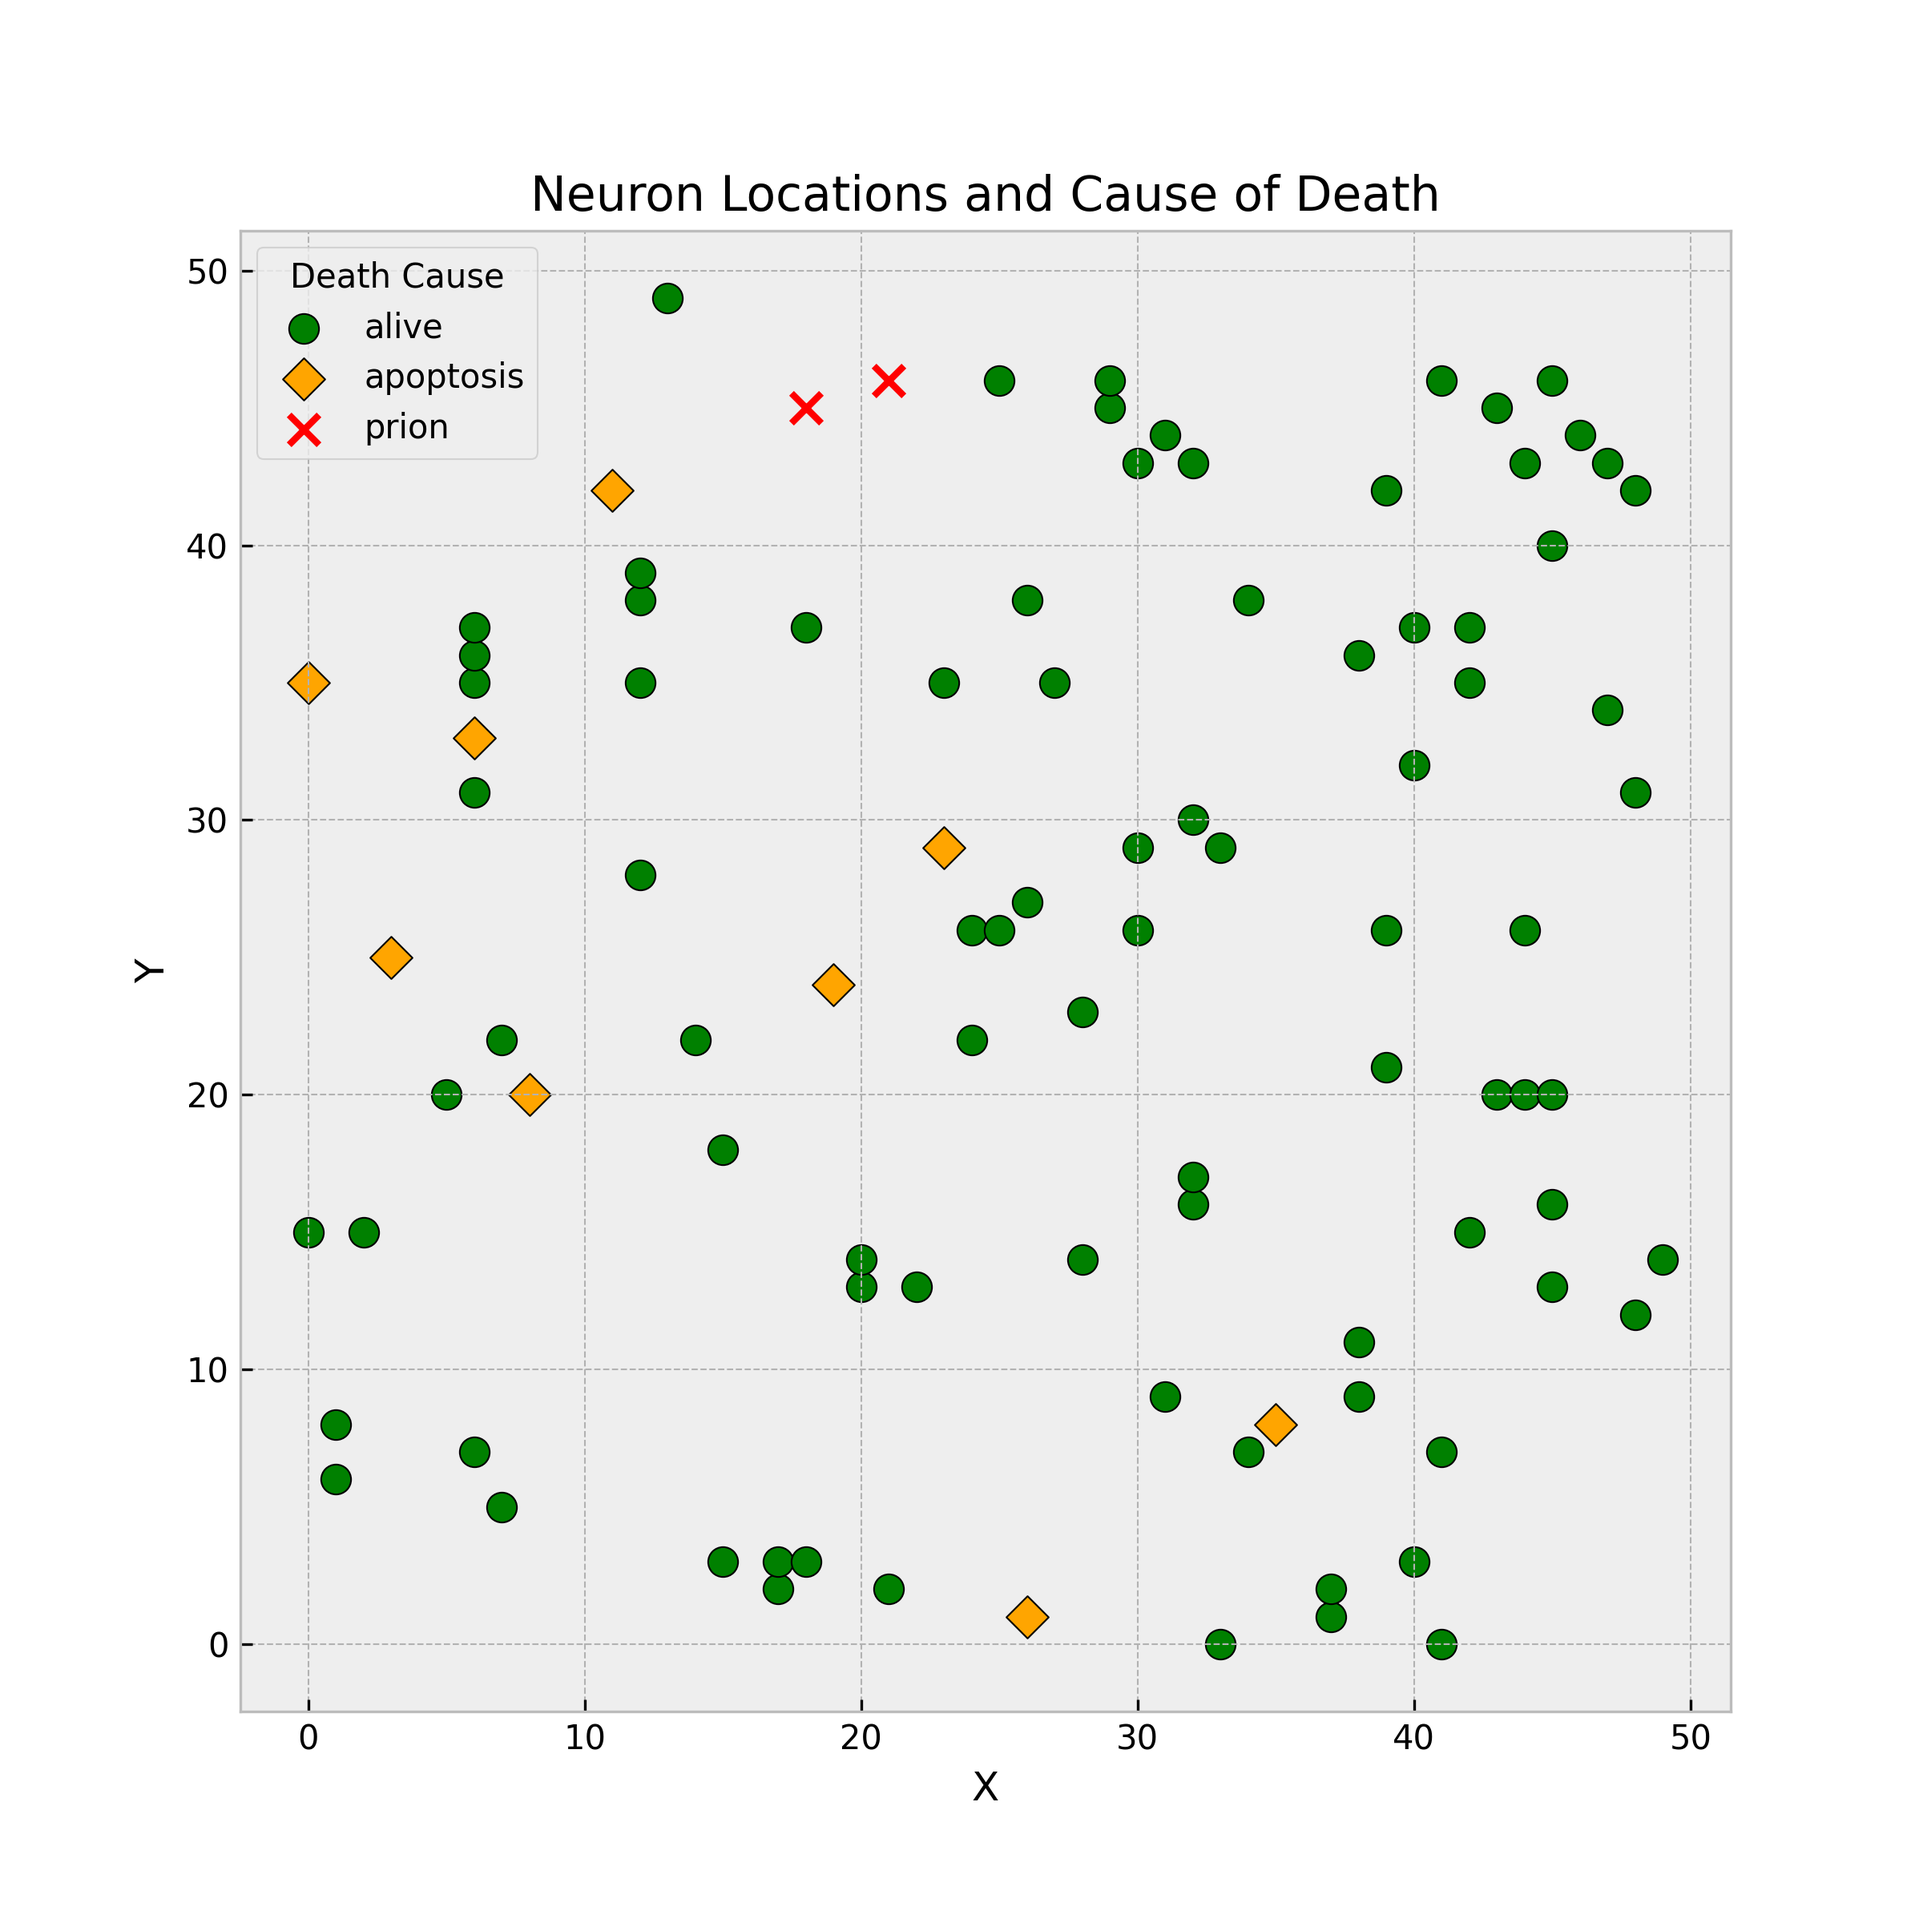
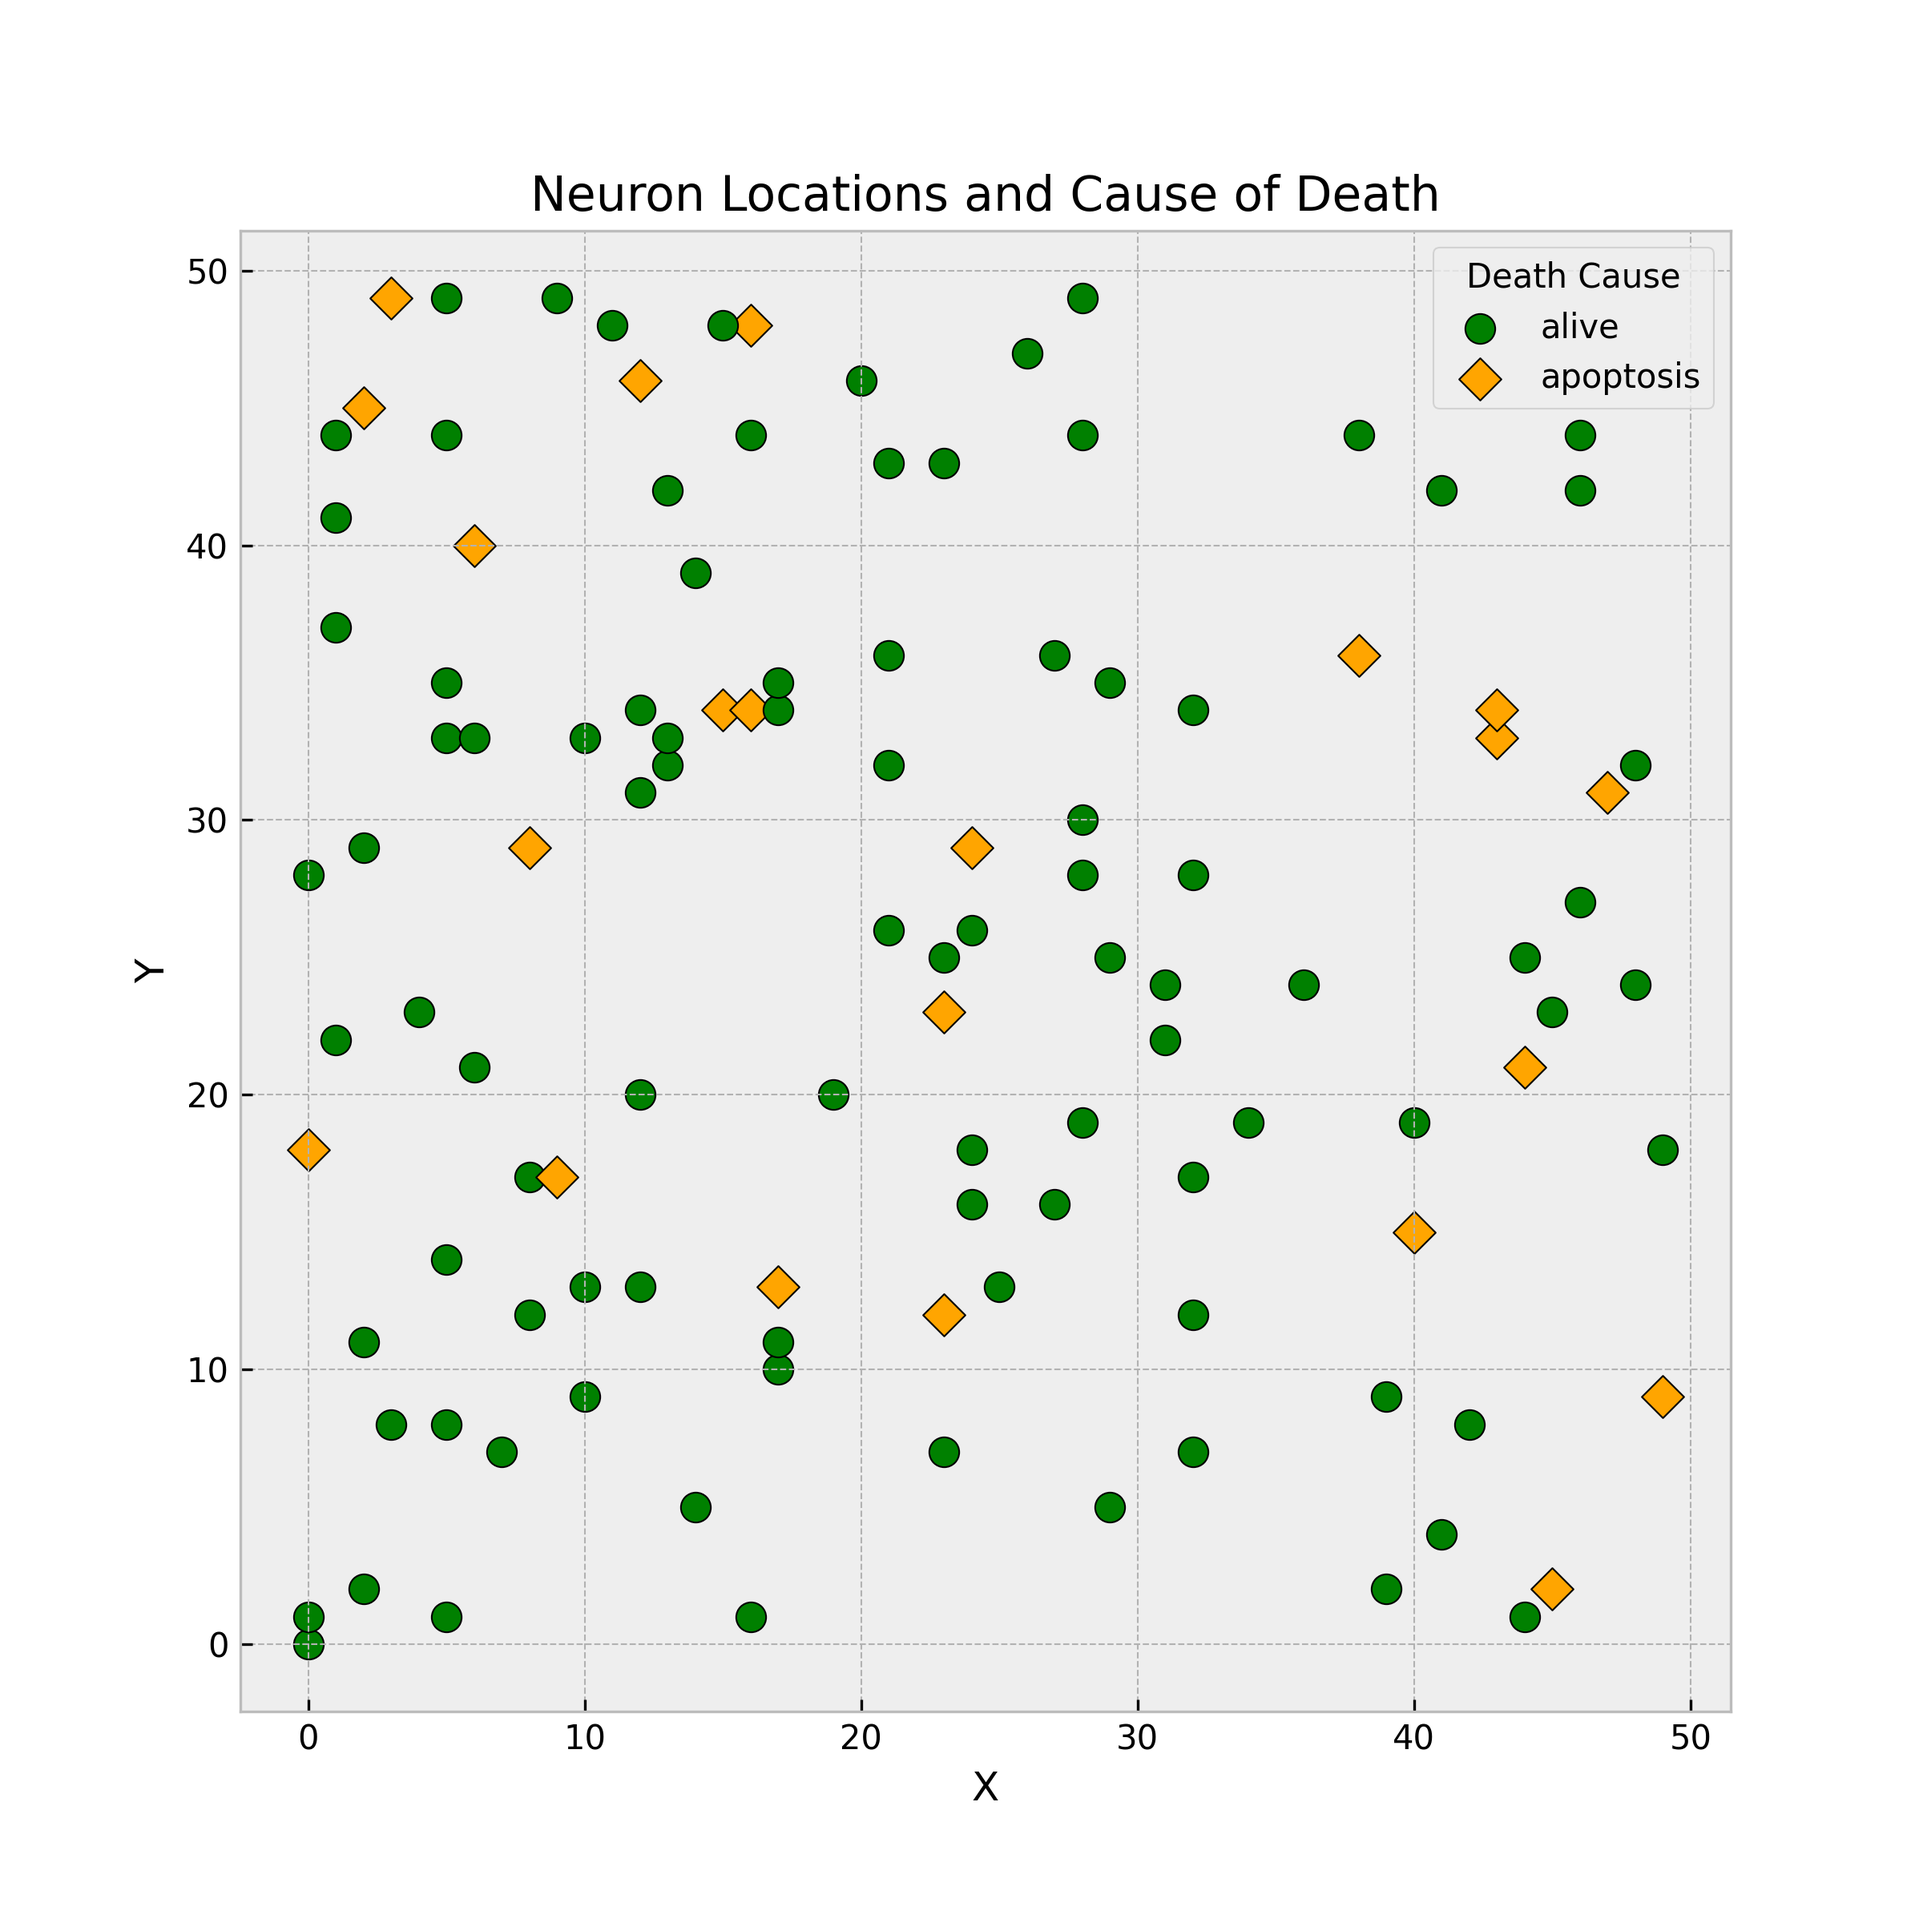
added cell replacement

diff --git a/source/cells.py b/source/cells.py
@@ -17,7 +17,7 @@ class Neuron:
     died (str or None): Cause of neuron death.
     """
 
-    def __init__(self, x, y, age=0):
+    def __init__(self, x, y, age=HEALTH_NEURON):
         """
         Initialize a neuron at position (x, y) with a given age.
 
@@ -50,7 +50,7 @@ class Neuron:
         self.died = cause
         return 0
 
-    def age_cell(self) -> None:
+    def age_cell(self, neuron_grid, neuron_dict) -> None:
         """
         Increment the neuron's age and check for apoptosis or age-related death.
         """
@@ -61,10 +61,10 @@ class Neuron:
 
         if MIN_AGE < self.age and np.random.rand() < P_apop:
             self.die("apoptosis")
-        # elif self.age >= MAX_AGE:
-        #     self.die("age")
+            if np.random.rand() < NEW_CELL_CHANGE:
+                create_neuron(neuron_grid, neuron_dict)
 
-    def prion_cell_death(self, prion_grid) -> None:
+    def prion_cell_death(self, prion_grid, neuron_grid, neuron_dict) -> None:
         """
         Check for prion-induced neuron death based on prion concentration in the neighborhood.
 
@@ -76,6 +76,9 @@ class Neuron:
         neighbor_sum = np.sum(neighborhood) - prion_grid[self.x, self.y]
         if neighbor_sum > PRION_THRESHOLD:
             self.die("prion")
+
+            if np.random.rand() < NEW_CELL_CHANGE:
+                create_neuron(neuron_grid, neuron_dict)
 
     def get_index(self, nx) -> int:
         """
@@ -187,3 +190,25 @@ def create_neuron_dict(neuron_grid) -> dict:
         neuron_grid[x, y] = neuron.get_age()
         neuron_dict[tuple(coords)] = neuron
     return neuron_dict
+
+
+def create_neuron(neuron_grid, neuron_dict):
+    """
+    Create a new neuron in the grid and update the neuron dictionary.
+
+    Params
+    -------
+    - neuron_grid (np.ndarray): Grid representing neuron health states.
+    - neuron_dict (dict): Dictionary mapping coordinates to Neuron objects.
+
+    Returns
+    -------
+    - None
+    """
+    empty_cells = np.argwhere(neuron_grid == 0)
+
+    if len(empty_cells) > 0:
+        x, y = empty_cells[np.random.choice(len(empty_cells))]
+        neuron = Neuron(x, y)
+        neuron_grid[x, y] = neuron.get_age()
+        neuron_dict[tuple((x, y))] = neuron

diff --git a/config.py b/config.py
@@ -14,27 +14,29 @@ HEALTH_NEURON = 1  # Value representing a healthy neuron
 DEATH_NEURON = -1  # Value representing a dead neuron
 DEATH_MIN = -5  # Minimum value for neuron death state
 
+NEW_CELL_CHANGE = 0.7  # Change in cell state for new cells
+
 # Grid and diffusion parameters
 GRID_SIZE = 50  # Grid size (number of cells per side)
 GRID_SPACING = 0.044  # Grid spacing (mm)
 
-k_A = 0.7  # Protein production rate (μg/μg/day)
-k_B = 0.1  # Prion production rate (μg/μg/day)
+k_A = 0.7  # Protein decay rate (μg/μg/day)
+k_B = 0.01  # Prion decay rate (μg/μg/day)
 k_c = 0.6  # Conversion rate (μg/μg/day)
 D_A = 0.7  # Protein diffusion coefficient (mm^2/day)
-D_B = 0.5  # Prion diffusion coefficient (mm^2/day)
+D_B = 0.6  # Prion diffusion coefficient (mm^2/day)
 
 # Simulation time parameters
 TIME = 250  # Total simulation time (days)
-TIME_SPACING = 0.001  # Time step size (days)
+TIME_SPACING = 0.01  # Time step size (days * spacing)
 SECONDS = 25  # Number of timesteps per second (for animation)
 SAVE_INTERVAL = 10  # Interval for saving simulation state (timesteps)
 GIF_DURATION = 10  # Duration of GIF animations (seconds)
 
 # Plotting parameters
-FIG_DPI = 300  # Figure resolution (dots per inch)
+FIG_DPI = 300  # Figure resolution
 
 # Biological parameters
 SECRETED_VALUE = 4  # Protein secreted per neuron per day (μm/μg)
-PRION_THRESHOLD = 0.1  # Prion threshold for neuron death (μg/μg neuron)
+PRION_THRESHOLD = 1  # Prion threshold for neuron death (μg/μg neuron)
 NUMBER_OF_NEURONS = 500  # Total number of neurons in the simulation

diff --git a/source/diffusion.py b/source/diffusion.py
@@ -246,9 +246,12 @@ def run_diffusion(
         protein_grid = A.value.reshape((GRID_SIZE, GRID_SIZE))
         prion_grid = B.value.reshape((GRID_SIZE, GRID_SIZE))
 
+        copy_neuron_dict = neuron_dict.copy()
         for neuron in neuron_dict.values():
             if neuron.alive:
-                neuron.age_cell()
-                neuron.prion_cell_death(prion_grid)
+                neuron.age_cell(neuron_grid, copy_neuron_dict)
+                neuron.prion_cell_death(prion_grid, neuron_grid, copy_neuron_dict)
             coords = neuron.get_coordinates()
             neuron_grid[int(coords[0]), int(coords[1])] = neuron.get_age()
+
+        neuron_dict.update(copy_neuron_dict)

diff --git a/main.py b/main.py
@@ -1,3 +1,5 @@
+import time
+
 import numpy as np
 from tqdm import tqdm
 
@@ -149,12 +151,16 @@ def plot_simulation_results(neuron_dict):
 
 
 def main():
+    start_time = time.time()
     A, B, eqA, eqB, neuron_grid, neuron_dict, protein_grid, prion_grid = (
         initialize_simulation()
     )
 
     run_simulation(A, B, eqA, eqB, neuron_grid, neuron_dict, protein_grid, prion_grid)
     plot_simulation_results(neuron_dict)
+    end_time = time.time()
+
+    print(f"Simulation completed in {end_time - start_time:.2f} seconds.")
 
 
 if __name__ == "__main__":
